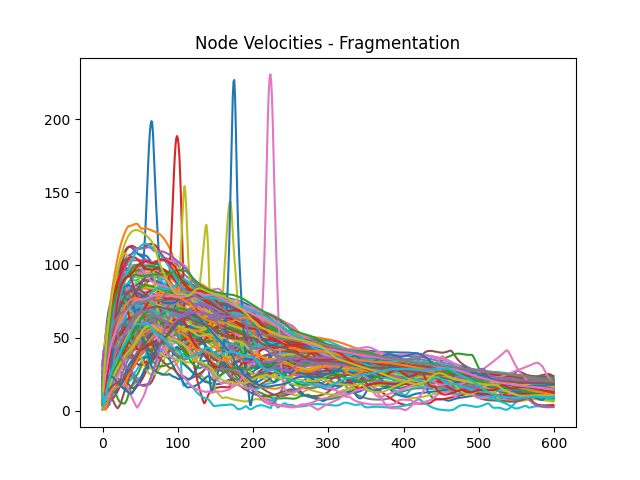
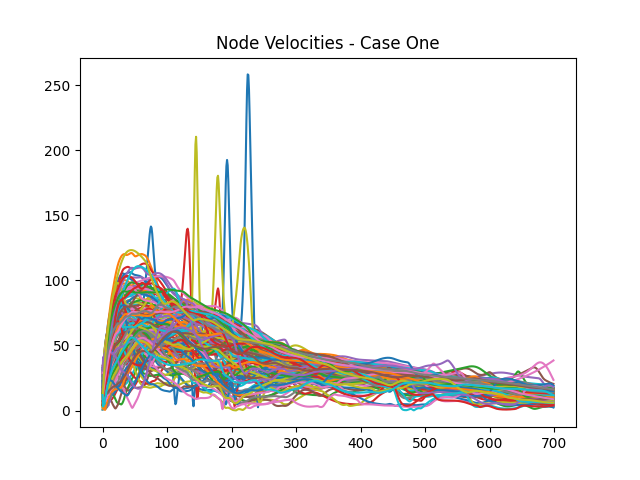
fixed the sin wave

diff --git a/project2.py b/project2.py
@@ -23,7 +23,7 @@ DIMENSIONS = 2
 D = 15
 K = 1.2
 R = K * D
-D_PRIME = 15
+D_PRIME = 20
 R_PRIME = K * D_PRIME
 DELTA_T = 0.009
 RANDOM_SEED = 28
@@ -56,7 +56,7 @@ def main():
 
     # plotNodesAndObstaclesAndSave(nodePositions, "caseOne/caseOne_start.png", obstacleRadii, obstacleCenters)
 
-    # for i in range(0, 600):
+    # for i in range(0, 700):
     #     nodePositions, nodeVelocities, nodeAccelerations = updateAlgo3(nodePositions, nodeVelocities, (250, 25), (0, 0), obstacleCenters, obstacleRadii)
     #     if (i + 1) % 100 == 0:
     #         plotNodesAndObstaclesAndSave(nodePositions, "caseOne/caseOne" + str(i + 1) + ".png", obstacleRadii, obstacleCenters)
@@ -65,9 +65,9 @@ def main():
     #     allNodeVelocities = np.concatenate((allNodeVelocities, nodeVelocities.copy()[:, :, np.newaxis]), axis = 2)
 
     # plotNodesAndObstaclesAndSave(nodePositions, "caseOne/caseOne_end.png", obstacleRadii, obstacleCenters)
-    # plotAndSaveNodeTrajectories(allPositions, "caseOne/caseOne_trajectory.png", "Fragmentation")
-    # plotAndSaveNodeVelocities(allNodeVelocities, "caseOne/caseOne_individual_velocity.png", "caseOne/caseOne_all_velcoity.png", "Fragmentation")
-    # plotAndSaveConnectivity(allPositions, "caseOne/caseOne_connectivity.png", "Fragmentation")
+    # plotAndSaveNodeTrajectories(allPositions, "caseOne/caseOne_trajectory.png", "Case One")
+    # plotAndSaveNodeVelocities(allNodeVelocities, "caseOne/caseOne_individual_velocity.png", "caseOne/caseOne_all_velcoity.png", "Case One")
+    # plotAndSaveConnectivity(allPositions, "caseOne/caseOne_connectivity.png", "Case One")
 
     ################################################################
     # CASE 2 - SIN WAVE
@@ -82,10 +82,13 @@ def main():
     obstacleRadii = np.array((15, 25, 30))
     allXCenters = []
     allYCenters = []
-    gammaX = np.arange(40, 250, ((250 - 40) / 600))
-    gammaY = (np.sin(2 * np.pi * gammaX / 600) * 75) + 25
+    gammaX = np.linspace(0, 210, 700)
+    gammaY = np.sin((gammaX / 210) * (2 * np.pi))
+    gammaY *= 50
+    gammaX += 40
+    gammaY += 25
 
-    for i in range(0, 600):
+    for i in range(0, 700):
         if i == 0:
             nodePositions, nodeVelocities, nodeAccelerations = updateAlgo3(nodePositions, nodeVelocities, (gammaX[i], gammaY[i]), (0, 0), obstacleCenters, obstacleRadii)
         else:
@@ -119,10 +122,10 @@ def main():
             plt.savefig("caseTwo/caseTwo" + str(i + 1) + ".png")
         print("FINISHED ITERATION: ", i)
 
-    plotAndSaveNodeTrajectories(allPositions, "caseTwo/caseTwo_trajectory.png", "Sin Wave")
-    plotAndSaveNodeVelocities(allNodeVelocities, "caseTwo/caseTWo_individual_velocity.png", "caseTwo/caseTwo_all_velcoity.png", "Sin Wave")
-    # plotAndSaveConnectivity(allPositions, "caseTwo/caseTwo_connectivity.png", "Sin Wave")
-    plotCenterOfMassAndTarget(gammaX, gammaY, allPositions, "caseTwo/center_of_mass.png", "Sin Wave")
+    plotAndSaveNodeTrajectories(allPositions, "caseTwo/caseTwo_trajectory.png", "Case Two")
+    plotAndSaveNodeVelocities(allNodeVelocities, "caseTwo/caseTWo_individual_velocity.png", "caseTwo/caseTwo_all_velcoity.png", "Case Two")
+    plotAndSaveConnectivity(allPositions, "caseTwo/caseTwo_connectivity.png", "Case Two")
+    plotCenterOfMassAndTarget(gammaX, gammaY, allPositions, "caseTwo/center_of_mass.png", "Case Two")
 
 
 def updateAlgo3(nodePositions, nodeVelocities, gammaPos, gammaVelocity, obstacleCenters, obstacleRadii):
@@ -432,6 +435,12 @@ def plotNodesAndSave(nodePositions, fileName):
 def plotNodesAndObstaclesAndSave(nodePositions, fileName, obstacleRadii, obstaclePositions):
 
     plt.clf()
+
+    ax = plt.gcf().gca()
+    for i in range(0, len(obstacleRadii)):
+        thisCircle = plt.Circle((obstaclePositions[i][0], obstaclePositions[i][1]), obstacleRadii[i], color = 'black')
+        ax.add_patch(thisCircle)
+
     for i in range(0, NUM_NODES):
         for j in range(0, NUM_NODES):
 
@@ -444,11 +453,6 @@ def plotNodesAndObstaclesAndSave(nodePositions, fileName, obstacleRadii, obstacl
                 # add line to plot for part 4
                 plt.plot([nodePositions[0][i], nodePositions[0][j]],[nodePositions[1][i], nodePositions[1][j]], color = "blue", linewidth = "0.5")
     plt.scatter(nodePositions[0], nodePositions[1], marker = ">", color = "magenta")
-
-    ax = plt.gcf().gca()
-    for i in range(0, len(obstacleRadii)):
-        thisCircle = plt.Circle((obstaclePositions[i][0], obstaclePositions[i][1]), obstacleRadii[i], color = 'black')
-        ax.add_patch(thisCircle)
 
     plt.gcf().gca().set_aspect("equal")
     plt.savefig(fileName)
